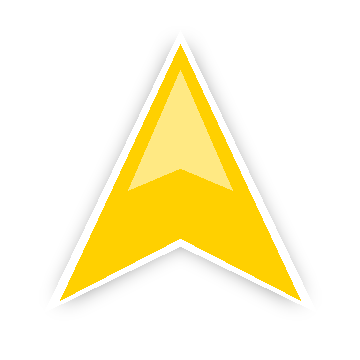
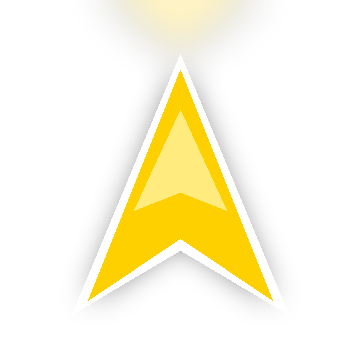
VELO: premium nav markers — pro arrow + 2 top-down bikes (Yandex-style)
Replace the flat vector puck with premium PNG map markers: a directional nav
arrow with a light cone, plus top-down sport-bike and red-okada icons that
rotate to heading. Rework the profile picker to show the 3 PNG options (drop the
now-irrelevant colour swatches). navMarker service is now PNG-source based.

Changed region(s): [[0.1528, 0.0, 0.825, 0.8556]]

diff --git a/artifacts/velo/app/(tabs)/profile.tsx b/artifacts/velo/app/(tabs)/profile.tsx
@@ -1,6 +1,7 @@
 import React, { useEffect, useState } from 'react';
 import {
   Alert,
+  Image,
   Platform,
   ScrollView,
   Share,
@@ -10,13 +11,13 @@ import {
   View,
 } from 'react-native';
 import { useSafeAreaInsets } from 'react-native-safe-area-context';
-import { Ionicons, MaterialCommunityIcons } from '@expo/vector-icons';
+import { Ionicons } from '@expo/vector-icons';
 import * as Haptics from 'expo-haptics';
 import { useRouter } from 'expo-router';
 import { StatusBar } from 'expo-status-bar';
 import { useApp, type Role } from '@/context/AppContext';
 import { callEmergency, EMERGENCY_NUMBER } from '@/services/safety';
-import { NAV_ICONS, NAV_COLORS } from '@/services/navMarker';
+import { NAV_ICONS } from '@/services/navMarker';
 import { riderTierProgress } from '@/services/riderTiers';
 import { tierProgress } from '@/services/tiers';
 import {
@@ -359,34 +360,25 @@ export default function ProfileScreen() {
             <View style={styles.navIconRow}>
               {NAV_ICONS.map((ic) => {
                 const active = navMarker.icon === ic.id;
-                const Family = ic.family === 'mci' ? MaterialCommunityIcons : Ionicons;
                 return (
                   <TouchableOpacity
                     key={ic.id}
-                    style={[styles.navIconChip, active && { borderColor: navMarker.color, backgroundColor: 'rgba(255,255,255,0.05)' }]}
+                    style={[styles.navIconChip, active && styles.navIconChipActive]}
                     onPress={() => { Haptics.selectionAsync(); setNavMarker({ ...navMarker, icon: ic.id }); }}
                     activeOpacity={0.85}
                   >
-                    <View style={[styles.navIconPuck, { backgroundColor: active ? navMarker.color : '#1C1C1F' }]}>
-                      <Family name={ic.name as any} size={22} color={active ? (navMarker.color === '#FFFFFF' || navMarker.color === '#FFD000' ? '#000' : '#FFF') : '#A1A1AA'} />
+                    <View style={styles.navIconPuck}>
+                      <Image source={ic.source} style={styles.navIconImg} resizeMode="contain" />
                     </View>
                     <Text style={[styles.navIconLabel, active && { color: '#FFFFFF' }]}>{ic.label}</Text>
+                    {active && (
+                      <View style={styles.navIconCheck}>
+                        <Ionicons name="checkmark" size={12} color="#000" />
+                      </View>
+                    )}
                   </TouchableOpacity>
                 );
               })}
-            </View>
-
-            <View style={styles.navColorRow}>
-              {NAV_COLORS.map((c) => (
-                <TouchableOpacity
-                  key={c}
-                  style={[styles.navSwatch, { backgroundColor: c }, navMarker.color === c && styles.navSwatchActive]}
-                  onPress={() => { Haptics.selectionAsync(); setNavMarker({ ...navMarker, color: c }); }}
-                  activeOpacity={0.85}
-                >
-                  {navMarker.color === c && <Ionicons name="checkmark" size={16} color={c === '#FFFFFF' || c === '#FFD000' ? '#000' : '#FFF'} />}
-                </TouchableOpacity>
-              ))}
             </View>
           </View>
         )}
@@ -574,12 +566,17 @@ const styles = StyleSheet.create({
   navSub: { fontSize: 12, color: '#71717A', marginTop: 2, marginBottom: 14 },
   navIconRow: { flexDirection: 'row', gap: 10 },
   navIconChip: {
-    flex: 1, alignItems: 'center', gap: 8, paddingVertical: 12,
+    flex: 1, alignItems: 'center', gap: 8, paddingVertical: 14,
     borderRadius: 14, borderWidth: 1.5, borderColor: '#2A2A2D', backgroundColor: '#131316',
   },
+  navIconChipActive: { borderColor: '#FFD000', backgroundColor: 'rgba(255,208,0,0.08)' },
   navIconPuck: {
-    width: 44, height: 44, borderRadius: 22, alignItems: 'center', justifyContent: 'center',
-    borderWidth: 2, borderColor: 'rgba(255,255,255,0.15)',
+    width: 52, height: 52, alignItems: 'center', justifyContent: 'center',
+  },
+  navIconImg: { width: 48, height: 48 },
+  navIconCheck: {
+    position: 'absolute', top: 8, right: 8, width: 18, height: 18, borderRadius: 9,
+    backgroundColor: '#FFD000', alignItems: 'center', justifyContent: 'center',
   },
   navIconLabel: { fontSize: 12, fontWeight: '700', color: '#A1A1AA' },
   navColorRow: { flexDirection: 'row', gap: 12, marginTop: 16, justifyContent: 'center' },

diff --git a/artifacts/velo/services/navMarker.ts b/artifacts/velo/services/navMarker.ts
@@ -1,26 +1,27 @@
-// Driver-selectable navigation marker (the puck that follows them on the map).
-// Motorbike ride app — two bike styles + a plain nav arrow (no bicycle).
-export type NavIconId = 'moto' | 'moped' | 'nav';
+// Driver-selectable navigation marker — the puck that follows them on the map.
+// Premium PNG markers (Yandex/Google style): a pro directional arrow plus two
+// top-down motorbikes, rather than flat vector glyphs.
+export type NavIconId = 'arrow' | 'sport' | 'okada';
 
 export interface NavMarker {
   icon: NavIconId;
-  color: string;
+  color: string; // retained for back-compat; the PNGs carry their own colour
 }
 
 export const NAV_ICONS: {
   id: NavIconId;
-  family: 'ionicons' | 'mci';
-  name: string;
   label: string;
+  source: number; // require()'d PNG asset
 }[] = [
-  { id: 'moto', family: 'mci', name: 'motorbike', label: 'Sport bike' },
-  { id: 'moped', family: 'mci', name: 'moped', label: 'Moped' },
-  { id: 'nav', family: 'ionicons', name: 'navigate', label: 'Arrow' },
+  { id: 'arrow', label: 'Nav arrow', source: require('@/assets/images/nav-arrow.png') },
+  { id: 'sport', label: 'Sport bike', source: require('@/assets/images/nav-bike-sport.png') },
+  { id: 'okada', label: 'Okada', source: require('@/assets/images/nav-bike-okada.png') },
 ];
 
+// Kept for back-compat with any importers; the marker picker no longer tints.
 export const NAV_COLORS = ['#FFD000', '#22C55E', '#4DA6FF', '#EF4444', '#B026FF', '#FFFFFF'];
 
-export const DEFAULT_NAV_MARKER: NavMarker = { icon: 'moto', color: '#FFD000' };
+export const DEFAULT_NAV_MARKER: NavMarker = { icon: 'arrow', color: '#FFD000' };
 
 export function navIcon(id: NavIconId) {
   return NAV_ICONS.find((n) => n.id === id) ?? NAV_ICONS[0];

diff --git a/artifacts/velo/components/LiveMap.tsx b/artifacts/velo/components/LiveMap.tsx
@@ -84,14 +84,14 @@ function HeatBlob({ intensity, index }: { intensity: number; index: number }) {
   );
 }
 
-// The driver's own follow puck — an Uber-style directional arrow PNG that
-// rotates to the heading (direction of travel), sitting on their position.
-const NAV_ARROW = require('@/assets/images/nav-arrow.png');
-function NavPuck({ heading }: { marker?: NavMarker; heading?: number }) {
+// The driver's own follow puck — a premium top-down PNG marker (pro arrow or a
+// motorbike) that rotates to the heading (direction of travel).
+function NavPuck({ marker, heading }: { marker?: NavMarker; heading?: number }) {
+  const source = navIcon(marker?.icon ?? DEFAULT_NAV_MARKER.icon).source;
   return (
     <View style={styles.puckWrap} pointerEvents="none">
       <Image
-        source={NAV_ARROW}
+        source={source}
         style={[styles.navArrow, heading != null ? { transform: [{ rotate: `${heading}deg` }] } : null]}
         resizeMode="contain"
       />
